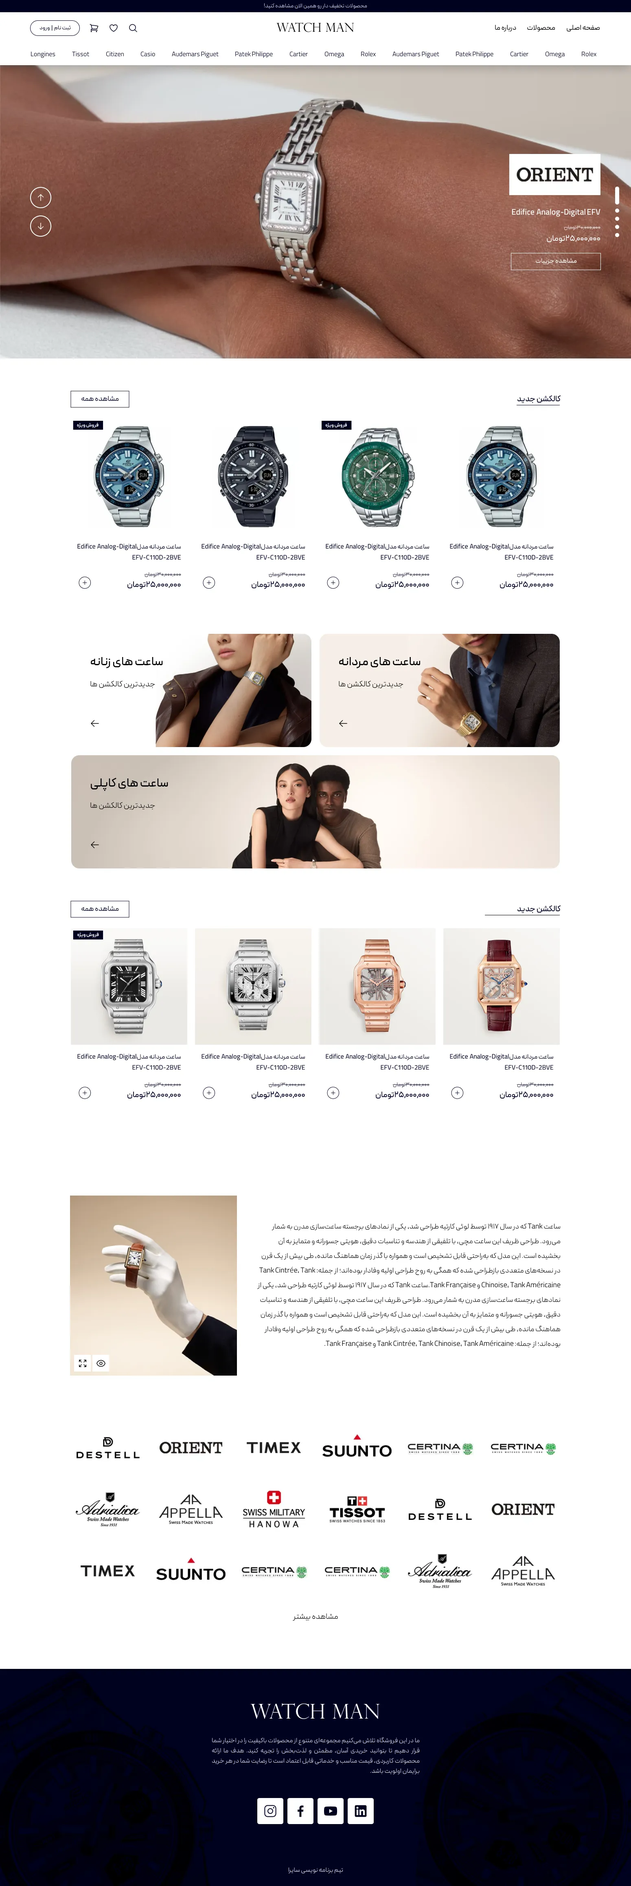
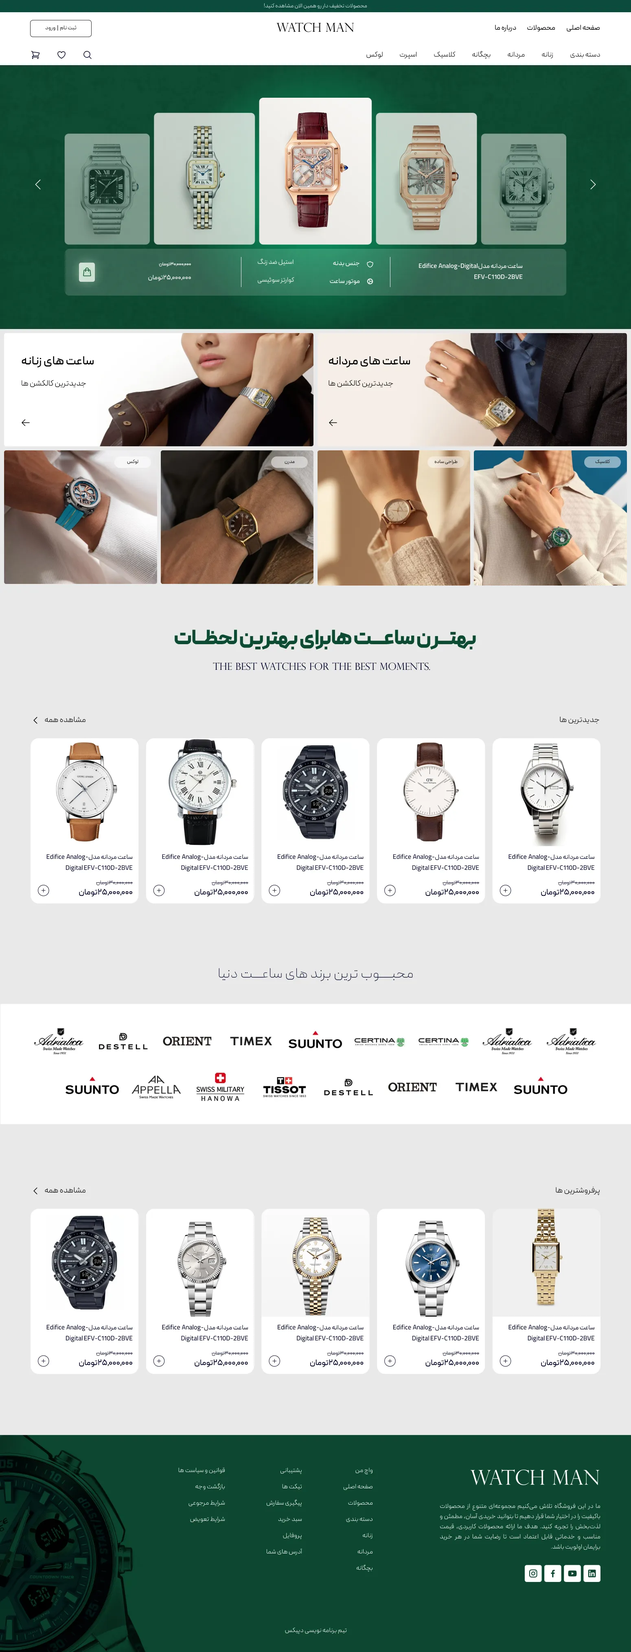
add new weblog post update images change and fix date og weblogs

diff --git a/public/js/main.js b/public/js/main.js
@@ -300,12 +300,101 @@ const projects = [
 
 // Global state for Blog Posts
 const blogPosts = [
+
+  {
+  id: 6,
+  slug: "ایا-مشتری-های-من-در-اینترنت-هستند",
+  title: "آیا مشتریهای من در اینترنت هستند؟",
+  category: "استراتژی دیجیتال",
+  date: "۱۴۰۵/۰۵/۲۶",
+  readTime: "۸ دقیقه",
+  image: "./assets/blog/blog6.webp",
+  excerpt: "قبل از اینکه برای طراحی سایت هزینه کنید، بهتر است بدانید مشتریهای شما در اینترنت به دنبال چه چیزی هستند و آیا سایت میتواند در مسیر خرید آنها نقشی داشته باشد یا نه.",
+  author: {
+    name: "هادی موذن",
+    role: "طراح ارشد محصول در دپیکس",
+    avatar: "./assets/brand/favicon.png"
+  },
+  content: {
+    intro: "اگر صاحب یک کسبوکار باشید و بخواهید برای آن سایت طراحی کنید، احتمالاً یکی از اولین سؤالهایی که باید از خودتان بپرسید این نیست که **«چه سایتی طراحی کنم؟»**؛ بلکه این است:\n\n**«آیا مشتریهای من اصلاً در اینترنت هستند که بخواهم برایشان سایت داشته باشم؟»**\n\nاین سؤال مهمی است، چون داشتن سایت بهخودیخود فروش ایجاد نمیکند. اگر مشتری هدف شما در فضای آنلاین حضور نداشته باشد یا برای پیدا کردن محصول و خدمات شما از اینترنت استفاده نکند، حتی حرفهایترین سایت هم الزاماً بازگشت سرمایه خوبی نخواهد داشت.\n\nاز طرف دیگر، تصمیمگیری صرفاً بر اساس حدس هم درست نیست. باید ببینیم مشتریان واقعی ما در اینترنت چه رفتاری دارند و آیا سایت میتواند در مسیر تصمیمگیری و خرید آنها نقشی داشته باشد یا نه.",
+    sections: [
+      {
+        title: "مشتری امروز فقط آنلاین خرید نمیکند؛ آنلاین تحقیق هم میکند",
+        text: "ممکن است مشتری شما در نهایت خریدش را بهصورت حضوری انجام دهد، اما قبل از خرید در اینترنت جستوجو کند، قیمتها را مقایسه کند، مشخصات محصول را بررسی کند یا درباره اعتبار یک کسبوکار تحقیق کند.\n\nطبق گزارش Digital 2026، در پایان سال ۲۰۲۵ حدود **۷۳.۸ میلیون نفر در ایران کاربر اینترنت** بودهاند؛ یعنی حدود **۷۹.۶٪ جمعیت کشور**.\n\nبنابراین اگر بازار هدف شما عموم مردم ایران است، فرض اینکه «مشتریهای من در اینترنت نیستند» نیاز به بررسی جدی دارد.\n\nاما باید بین دو موضوع تفاوت قائل شویم:\n\n**کاربر اینترنت بودن با مشتری آنلاین بودن یکی نیست.**\n\nممکن است مشتری هیچوقت از سایت شما خرید نکند، اما قبل از خرید، شما را در اینترنت پیدا و ارزیابی کند."
+      },
+      {
+        title: "پس سؤال درست چیست؟",
+        text: "سؤال درست این نیست:\n\n**«آیا مشتری من آنلاین خرید میکند؟»**\n\nسؤال مهمتر این است:\n\n**«آیا مشتری من قبل از خرید، برای پیدا کردن یا ارزیابی محصول و خدمات من از اینترنت استفاده میکند؟»**\n\nاین تفاوت برای تصمیمگیری درباره طراحی سایت بسیار مهم است.\n\nبرای مثال، مشتری یک فروشگاه مبلمان ممکن است ترجیح دهد در نهایت مبل را حضوری ببیند و خرید کند؛ اما قبل از مراجعه، مدلها، قیمتها و فروشگاههای مختلف را در اینترنت بررسی کند.\n\nدر این حالت، سایت مستقیماً فروش اینترنتی انجام نمیدهد، اما میتواند روی تصمیم نهایی مشتری تأثیر بگذارد."
+      },
+      {
+        title: "چطور بفهمیم مشتریهای ما در اینترنت دنبال چه چیزی هستند؟",
+        text: "اولین قدم، بررسی جستوجوهای واقعی مشتریان است.\n\nفرض کنید یک شرکت خدمات نصب دوربین مداربسته دارید. مشتری ممکن است عباراتی مثل اینها را جستوجو کند:\n\n- قیمت دوربین مداربسته\n- نصب دوربین مداربسته\n- بهترین دوربین مداربسته\n- دوربین مداربسته برای مغازه\n- نصب دوربین برای شرکت\n\nاگر برای محصولات و خدمات شما جستوجوی واقعی وجود داشته باشد، یک نشانه مهم داریم: **بخشی از بازار برای پیدا کردن راهحل یا ارائهدهنده موردنظرش به اینترنت مراجعه میکند.**\n\nابزارهایی مانند Google Keyword Planner نیز میتوانند برای پیدا کردن کلمات کلیدی مرتبط و بررسی میزان جستوجوی آنها مورد استفاده قرار بگیرند.\n\nاما اینجا یک نکته مهم وجود دارد: **تعداد جستوجو بهتنهایی به معنی تعداد مشتری نیست.**"
+      },
+      {
+        title: "هر جستوجویی به معنی یک مشتری آماده خرید نیست",
+        text: "فرض کنید دو نفر عبارتهای زیر را جستوجو کنند:\n\n**«دوربین مداربسته چیست؟»**\n\nو\n\n**«قیمت نصب دوربین مداربسته در تهران»**\n\nهر دو نفر در اینترنت به دنبال دوربین مداربسته هستند، اما احتمالاً در یک مرحله از مسیر خرید قرار ندارند.\n\nنفر اول شاید هنوز در مرحله آشنایی و تحقیق باشد؛ اما نفر دوم احتمالاً به خرید یا دریافت خدمات نزدیکتر است.\n\nبه همین دلیل هنگام بررسی بازار آنلاین، فقط نباید بپرسیم:\n\n**«چند نفر این عبارت را جستوجو میکنند؟»**\n\nباید بپرسیم:\n\n**«این افراد با چه هدفی این عبارت را جستوجو میکنند؟»**\n\nاین همان چیزی است که به آن **نیت جستوجو** میگوییم."
+      },
+      {
+        title: "مقایسه: همه کسبوکارها به یک شکل از سایت سود نمیبرند",
+        text: "یکی از اشتباهات رایج این است که برای همه کسبوکارها یک نسخه تجویز کنیم:\n\n**«هر کسبوکاری باید سایت داشته باشد.»**\n\nواقعیت این است که ارزش سایت به مدل کسبوکار و رفتار مشتری بستگی دارد.",
+        table: {
+          headers: ["نوع کسبوکار", "احتمال استفاده مشتری از اینترنت", "نقش احتمالی سایت"],
+          rows: [
+            ["فروشگاه اینترنتی", "بسیار زیاد", "فروش مستقیم"],
+            ["خدمات تخصصی", "زیاد", "جذب مشتری و اعتمادسازی"],
+            ["آموزش و دوره", "زیاد", "معرفی، جذب و فروش"],
+            ["شرکت B2B", "متوسط تا زیاد", "اعتبارسنجی و جذب سرنخ"],
+            ["رستوران و کسبوکار محلی", "متوسط تا زیاد", "پیدا شدن، تماس و رزرو"],
+            ["تولیدکننده صنعتی", "متوسط تا زیاد", "معرفی محصولات و جذب سرنخ"],
+            ["کسبوکار کاملاً حضوری", "متغیر", "اعتبارسازی و جذب اولیه"],
+            ["کسبوکار با بازار بسیار محدود", "متغیر", "نیازمند بررسی اقتصادی"]
+          ]
+        }
+      },
+      {
+        title: "فروش آنلاین با تحقیق آنلاین فرق دارد",
+        text: "فرض کنید یک فروشگاه مبلمان دارید.\n\nممکن است مشتری نخواهد مبل را اینترنتی بخرد، چون ترجیح میدهد قبل از خرید آن را از نزدیک ببیند.\n\nآیا این یعنی سایت برای شما بیفایده است؟\n\nلزومی ندارد.\n\nمشتری ممکن است ابتدا عبارت **«مبل راحتی مدرن»** را جستوجو کند، چند فروشگاه را بررسی کند، نمونهکارها را ببیند، قیمت حدودی را مقایسه کند و در نهایت برای دیدن محصول به فروشگاه شما مراجعه کند.\n\nدر این حالت، سایت مستقیماً فروش اینترنتی انجام نداده، اما در **مسیر تبدیل مشتری به خریدار** نقش داشته است.\n\nبنابراین اگر کسبوکارتان فروش حضوری دارد، سؤال درست این نیست که:\n\n**«آیا مشتری از سایت خرید میکند؟»**\n\nبلکه بهتر است بپرسید:\n\n**«آیا مشتری قبل از خرید، برای پیدا کردن و ارزیابی من به اینترنت مراجعه میکند؟»**"
+      },
+      {
+        title: "آیا مشتری آنلاین دارید؟ از رقبایتان هم میتوانید سرنخ بگیرید",
+        text: "یکی از راههای ساده برای بررسی رفتار بازار، نگاه کردن به رقبای شماست.\n\nاگر مشتریان یک حوزه در اینترنت جستوجو میکنند، معمولاً بخشی از رقبا هم تلاش میکنند در همان نقطه دیده شوند.\n\nبررسی کنید:\n\n- رقبای شما برای چه عبارتهایی در گوگل دیده میشوند؟\n- آیا سایت دارند؟\n- چه خدمات یا محصولاتی را در سایت معرفی کردهاند؟\n- آیا امکان ثبت سفارش یا درخواست مشاوره دارند؟\n- چه سؤالاتی را در محتوای خود پاسخ دادهاند؟\n\nاین بررسی به شما نشان میدهد که **بازار آنلاین شما چگونه رفتار میکند و رقبا برای جذب آن چه کاری انجام دادهاند.**\n\nالبته حضور رقیب در اینترنت بهتنهایی ثابت نمیکند که سایت برای شما سودآور است؛ اما میتواند یک نشانه مهم برای شروع تحقیق باشد."
+      },
+      {
+        title: "یک نکته مهم: نبودن جستوجو همیشه به معنی نبودن بازار نیست",
+        text: "فرض کنید محصول جدیدی دارید که هنوز برای مردم شناختهشده نیست.\n\nممکن است افراد نام محصول شما را جستوجو نکنند. آیا این یعنی بازار ندارید؟\n\nنه لزوماً.\n\nممکن است مشتری هنوز نام راهحل شما را نداند، اما مشکل یا نیازی داشته باشد که برای حل آن در اینترنت جستوجو میکند.\n\nمثلاً بهجای جستوجوی نام محصول، ممکن است جستوجو کند:\n\n**«چطور مصرف برق کارخانه را کاهش دهیم؟»**\n\nیا:\n\n**«راه کاهش هزینه برق در کارخانه چیست؟»**\n\nبنابراین تحقیق بازار آنلاین نباید فقط روی نام محصول یا خدمت شما متمرکز شود. باید ببینیم **مشتری چه مشکلی دارد و برای حل آن چه چیزی جستوجو میکند.**"
+      },
+      {
+        title: "قبل از طراحی سایت، این ۵ سؤال را جواب دهید",
+        text: "اگر هنوز نمیدانید طراحی سایت برای کسبوکار شما منطقی است یا نه، قبل از هزینه کردن این پنج سؤال را بررسی کنید:",
+        list: [
+          "مشتری من در اینترنت حضور دارد؟",
+          "مشتری من برای محصول یا خدمت من چه عباراتی را جستوجو میکند؟",
+          "آیا این جستوجوها نیت خرید یا دریافت خدمات دارند؟",
+          "رقبای من برای جذب این مشتری در اینترنت چه کاری انجام میدهند؟",
+          "سایت قرار است دقیقاً چه نقشی در مسیر جذب و تبدیل مشتری داشته باشد؟"
+        ]
+      },
+      {
+        title: "سایت قرار نیست فقط یک ویترین زیبا باشد",
+        text: "اگر متوجه شویم مشتریان ما در اینترنت به دنبال محصول، خدمت یا راهحل ما هستند، آنوقت سایت میتواند به یکی از نقاط مهم ارتباط با مشتری تبدیل شود.\n\nاما هدف نباید این باشد که فقط **«یک سایت داشته باشیم.»**\n\nهدف باید این باشد که بدانیم سایت قرار است کدام بخش از مسیر مشتری را بهتر کند:\n\n**جذب → اعتماد → بررسی → تصمیم → خرید**\n\nیک سایت حرفهای زمانی ارزش واقعی ایجاد میکند که در این مسیر نقش مشخصی داشته باشد."
+      },
+      {
+        title: "جمعبندی و نتیجهگیری",
+        text: "برای پاسخ به سؤال **«آیا مشتریهای من در اینترنت هستند؟»** نباید فقط به حدس و تجربه شخصی تکیه کنیم.\n\nباید رفتار مشتری، جستوجوهای مرتبط، نیت جستوجو و وضعیت رقبا را بررسی کنیم.\n\nممکن است مشتری شما مستقیماً از سایت خرید نکند؛ اما اگر قبل از خرید در اینترنت تحقیق کند، سایت میتواند روی تصمیم او اثر بگذارد.\n\nبنابراین قبل از طراحی سایت، سؤال مهمتر این است:\n\n**«مشتری من در اینترنت به دنبال چیست و سایت من قرار است کدام بخش از مسیر خرید او را پوشش دهد؟»**"
+      },
+      {
+        subtitle: "منابع و مراجع",
+        text: "برای تهیه این مقاله از منابع زیر استفاده شده است:\n\n- **DataReportal – Digital 2026: Iran**: آمار کاربران اینترنت و وضعیت دیجیتال ایران.\n- **Google Ads – Keyword Planner**: اطلاعات مربوط به تحقیق کلمات کلیدی و بررسی میزان جستوجو.\n- **Think with Google – Consumer Behavior Trends**: پژوهشهای Google درباره رفتار مصرفکنندگان و تحقیق آنلاین پیش از خرید.\n- **Google Business Profile Help**: اطلاعات رسمی درباره حضور کسبوکارها در Google Search و Maps.\n\nنکته: آمار و پژوهشهای مربوط به رفتار خرید آنلاین، بسته به کشور، صنعت و جامعه آماری متفاوت هستند و نباید بدون توجه به بازار هدف، به همه کسبوکارها تعمیم داده شوند."
+      }
+    ]
+  }
+},
   {
     id: 4,
     slug: "ایا-مردم-از-سایت-خرید-می-کنند-بررسی-امار-خرید-اینترنتی-در-ایران",
     title: "آیا مردم واقعاً از سایت خرید میکنند؟ بررسی آمار و رفتار خرید اینترنتی در ایران",
     category: "تحلیل بازار",
-    date: "۱۴۰۴/۱۱/۲۵",
+    date: "۱۴۰۵/۰۵/۲۵",
     readTime: "۹ دقیقه",
     image: "./assets/blog/blog4.webp",
     excerpt: "بررسی واقعبینانه آمار تجارت الکترونیکی در ایران، تحلیل رفتار خریداران ایرانی و پاسخ به این سؤال که سایت چه نقشی در رشد کسبوکارهای کوچک دارد.",
@@ -388,7 +477,7 @@ const blogPosts = [
     slug: "اگر-اینستاگرام-دارم-سایت-چه-چیزی-به-کسب-و-کارم-اضافه-می-کند",
     title: "اگر اینستاگرام دارم، سایت چه چیزی به کسبوکارم اضافه میکند؟",
     category: "استراتژی دیجیتال",
-    date: "۱۴۰۴/۱۱/۲۸",
+    date: "۱۴۰۵/۰۵۲۸",
     readTime: "۱۰ دقیقه",
     image: "./assets/blog/blog5.webp",
     excerpt: "سایت رقیب اینستاگرام نیست، بلکه مکمل آن است. بررسی اختصاصی ۷ قابلیتی که وبسایت به یک پیج اینستاگرامی فروشگاهی اضافه میکند.",
@@ -469,7 +558,7 @@ const blogPosts = [
     slug: "چطور-یک-سایت-حرفه-ای-می-تواند-به-رشد-کسب-و-کار-شما-کمک-کند",
     title: "چطور یک سایت حرفهای میتواند به رشد کسبوکار شما کمک کند؟",
     category: "رشد کسبوکار",
-    date: "۱۴۰۴/۱۱/۲۰",
+    date: "۱۴۰۵/۰۵/۲۰",
     readTime: "۶ دقیقه",
     image: "./assets/blog/1.jpg",
     excerpt: "یک سایت ضعیف فقط یک آدرس اینترنتی است؛ اما یک سایت حرفهای میتواند به جذب مشتری، افزایش اعتماد و افزایش فروش کمک کند.",
@@ -550,12 +639,13 @@ const blogPosts = [
       ]
     }
   },
+  
   {
     id: 2,
     slug: "هزینه-طراحی-سایت-در-سال-۱۴۰۵-چقدر-است",
     title: "هزینه طراحی سایت در سال ۱۴۰۵ چقدر است؟ + عوامل مؤثر بر قیمت",
     category: "تعرفهها و هزینهها",
-    date: "۱۴۰۴/۱۱/۱۲",
+    date: "۱۴۰۵/۰۵/۱۲",
     readTime: "۸ دقیقه",
     image: "./assets/blog/3.jpg",
     excerpt: "بررسی تعرفههای سال ۱۴۰۵، بازه تقریبی قیمتها و مهمترین عوامل موثر بر هزینه طراحی وبسایت و فروشگاه اینترنتی.",
@@ -699,7 +789,7 @@ const blogPosts = [
     slug: "طراحی-سایت-اختصاصی-یا-قالب-آماده",
     title: "طراحی سایت اختصاصی یا قالب آماده؟ کدام برای کسبوکار شما بهتر است؟",
     category: "معماری محصول",
-    date: "۱۴۰۴/۱۱/۰۵",
+    date: "۱۴۰۵/۰۵/۲۵",
     readTime: "۷ دقیقه",
     image: "./assets/blog/2.jpg",
     excerpt: "مقایسه کامل طراحی اختصاصی وبسایت در برابر قالبهای آماده؛ بررسی مزایا، معایب، هزینههای پنهان و مقیاسپذیری.",
